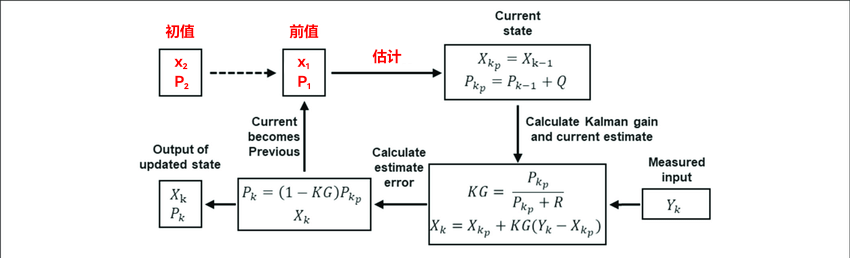
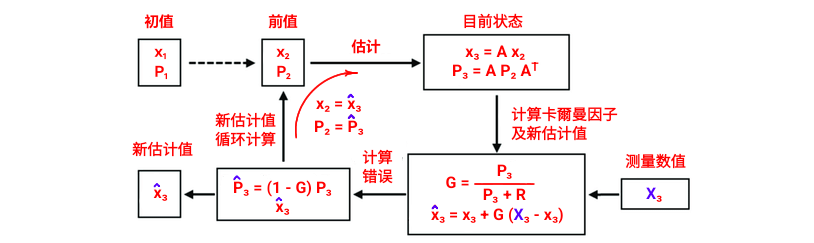
first commit

Changed region(s): [[0.0, 0.0, 1.0, 0.9794]]

diff --git a/_posts/2025-05-04-kfilter_1.md b/_posts/2025-05-04-kfilter_1.md
@@ -122,7 +122,7 @@ ${x_p}，{P_p}$ 分别为估算的下一组数据及相对应协方差。
 利用数据融合的思想可以知道，为了求出当前状态下最优的估计值，唯一不知道的量就是计算因子 K。而衡量最优的解的条件是什么呢？显然在概率统计中，方差越小，数据围绕真实值越集中。因此此时的目标就是寻找一个 K 的计算式，这样的 K 使得 $x_i，\hat{x_i}$ 的方差(多元数据使用协方差矩阵的迹)最小。
 
 
-### 計算卡爾曼计算因子 (因子介於 `0` 到 `1` 之間)
+### 計算卡爾曼因子 (因子介於 `0` 到 `1` 之間)
 
  - 測量設備誤差在整個估計過程中是固定不變的 : $ R $
 
@@ -131,4 +131,4 @@ ${x_p}，{P_p}$ 分别为估算的下一组数据及相对应协方差。
 $$ P_p = \frac {P_p}{P_p + R}$$
 
 
-![Alt X](../assets/img/kalman/flowcalc.png)
+![Alt X](../assets/img/kalman/flowcalcu.png)
